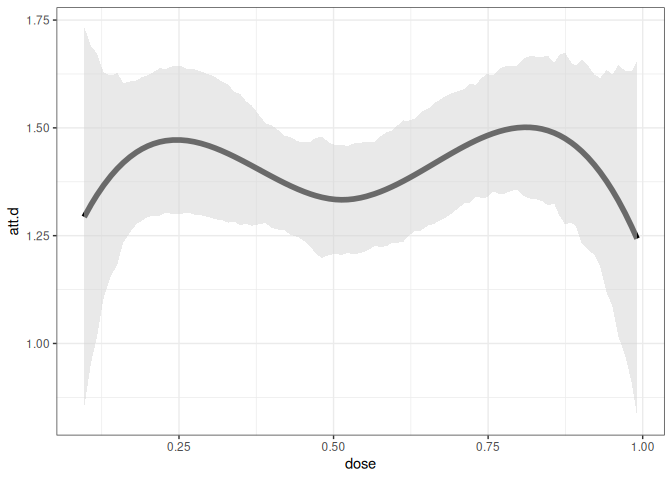
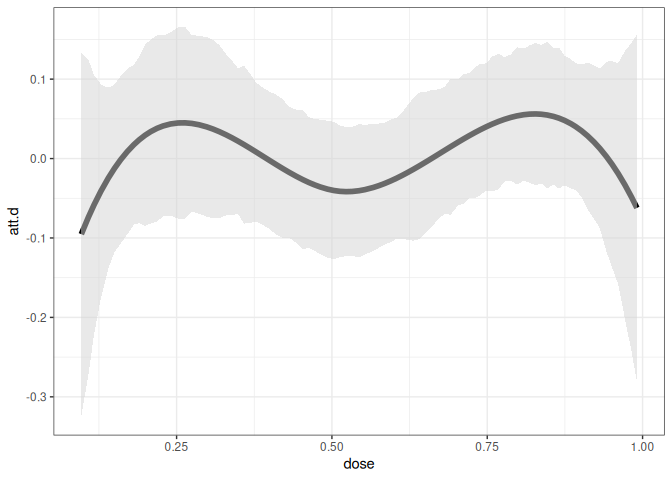
added tests

diff --git a/README.md b/README.md
@@ -20,30 +20,15 @@ devtools::install_github("bcallaway11/contdid")
 library(contdid)
 ```
 
-## Example
+## Conceptual Setup
 
-To start with, we will simulate some data, where the continuous
-treatment `D` has no affect on the outcome.
+Below, we give several examples of how to estimate causal effect
+parameters using the `cont_did` package.
 
-``` r
-# Simulate data
-set.seed(123)
-sp <- did::reset.sim()
-sp$n <- 10000
-df <- did::build_sim_dataset(sp)
-n <- length(unique(df$id))
-D <- runif(n, 0, 1)
-# add treatment variable
-df$D <- BMisc::time_invariant_to_panel(D, df, "id")
-```
-
-The following code illustrates how to estimate `ATT(d)` and `ACRT(d)`
-using the `cont_did` function, provided by the package.
-
-The interface is basically the same as for the `did` package and for
-other packages that rely on the `ptetools` backend. The main additional
-things that need to be provided to the function are the name of the
-continuous treatment variable, which should be passed through the
+At a high level, the interface is basically the same as for the `did`
+package and for other packages that rely on the `ptetools` backend, with
+only a few pieces of additional information being required. First, the
+name of the continuous treatment variable should be passed through the
 `dname` argument.
 
 The `cont_did` function expects the continuous treatment variable to
@@ -71,9 +56,10 @@ Next, the other important parameters are `target_parameter`,
   the function will calculate `ATT` parameters. If set to be “slope”,
   then the function will calculate `ACRT` parameters—these are causal
   response parameters that are derivatives of the `ATT` parameters. Our
-  paper @callaway-goodman-santanna-2024 points out some complications
-  for interpreting these derivative type parameters under the most
-  commonly invoked version of the parallel trends assumption.
+  paper [Callaway, Goodman-Bacon, and Sant’Anna
+  (2024)](https://arxiv.org/abs/2107.02637) points out some
+  complications for interpreting these derivative type parameters under
+  the most commonly invoked version of the parallel trends assumption.
 
 - `aggregation` can either by “eventstudy” or “dose”. For “eventstudy”,
   depending on the value of the `target_parameter` argument, the
@@ -95,7 +81,55 @@ Next, the other important parameters are `target_parameter`,
   the continuous treatment among treated units and subtracting the
   average outcome among the comparison units.
 
-### Dose Aggregation
+## Examples
+
+With a continous treatment, the underlying building blocks are treatment
+effects that are local to a particular timing group `g` in a particular
+time period `t` that experienced a particular value of the treatment
+`d`. These treatment affects are relatively high-dimensional, and most
+applications are likely to involve aggregating/combining these
+underlying parameters. We focus on aggregations that (i) average across
+timing-groups and time periods to given average treatment effect
+parameters as a function of the dose `d` or (ii) averages across doses
+and partially across timing group and time periods in order to give
+event studies.
+
+For the results below, we will simulate some data, where the continuous
+treatment `D` has no effect on the outcome.
+
+``` r
+# Simulate data
+set.seed(123)
+# baseline simulation parameters
+sp <- did::reset.sim()
+# adjust some default simulation parameters
+sp$n <- 10000 # increase number of units
+sp$bett <- sp$betu <- sp$te.bet.X <- rep(0, length(sp$bett)) # no effects of covariates
+sp$te <- 0 # the effect of the treatment is 0
+df <- did::build_sim_dataset(sp)
+n <- length(unique(df$id))
+D <- runif(n, 0, 1)
+# add treatment variable, it is fully independent of everything else
+df$D <- BMisc::time_invariant_to_panel(D, df, "id")
+head(df)
+#> # A tibble: 6 × 8
+#>       G      X    id cluster period     Y treat      D
+#>   <dbl>  <dbl> <int>   <int>  <dbl> <dbl> <dbl>  <dbl>
+#> 1     4 -0.560     1      19      1  2.47     1 0.548 
+#> 2     4 -0.560     1      19      2  5.23     1 0.548 
+#> 3     4 -0.560     1      19      3  6.20     1 0.548 
+#> 4     4 -0.560     1      19      4  6.29     1 0.548 
+#> 5     3  1.56      3      16      1  2.63     1 0.0237
+#> 6     3  1.56      3      16      2  4.21     1 0.0237
+```
+
+### Case 1: Dose Aggregation
+
+The following code can be used to estimate the `ATT(d)` and `ACRT(d)`
+parameters for the continuous treatment `D` using the `cont_did`
+function. The `aggregation` argument is set to “dose” and the
+`target_parameter` argument is set to “level” for `ATT(d)` and “slope”
+for `ACRT(d)`.
 
 ``` r
 cd_res <- cont_did(
@@ -118,13 +152,13 @@ cd_res <- cont_did(
 summary(cd_res)
 #> 
 #> Overall ATT:  
-#>     ATT    Std. Error     [ 95%  Conf. Int.]  
-#>  1.4145        0.0366     1.3427      1.4863 *
+#>     ATT    Std. Error     [ 95%  Conf. Int.] 
+#>  0.0067         0.027    -0.0461      0.0596 
 #> 
 #> 
 #> Overall ACRT:  
-#>     ACRT    Std. Error     [ 95%  Conf. Int.] 
-#>  -0.0582        0.0588    -0.1734       0.057 
+#>    ACRT    Std. Error     [ 95%  Conf. Int.] 
+#>  0.0376        0.0532    -0.0667      0.1419 
 #> ---
 #> Signif. codes: `*' confidence band does not cover 0
 ggcont_did(cd_res, type = "att")
@@ -138,9 +172,15 @@ ggcont_did(cd_res, type = "acrt")
 
 <img src="man/figures/README-unnamed-chunk-5-2.png" width="100%" />
 
-### Event Study Aggregations
+### Case 2: Event Study Aggregations
 
-An event study aggregation for `ATT`
+Next, we consider event study aggregations. The first is event study
+aggregation for `ATT`. The second is event study aggregation for `ACRT`.
+
+**Event study aggregation for `ATT`:**
+
+Notice that the target parameter is set `level` to target ATT, and the
+`aggregation` argument is set to `eventstudy`.
 
 ``` r
 cd_res_es_level <- cont_did(
@@ -163,17 +203,17 @@ cd_res_es_level <- cont_did(
 summary(cd_res_es_level)
 #> 
 #> Overall ATT:  
-#>     ATT    Std. Error     [ 95%  Conf. Int.]  
-#>  1.0171        0.0439      0.931      1.1033 *
+#>     ATT    Std. Error     [ 95%  Conf. Int.] 
+#>  0.0121        0.0192    -0.0255      0.0497 
 #> 
 #> 
 #> Dynamic Effects:
-#>  Event Time Estimate Std. Error  [95%  Conf. Band]  
-#>          -2   0.1651     0.0564 0.0144      0.3157 *
-#>          -1   0.2665     0.0339 0.1760      0.3569 *
-#>           0   0.9330     0.0307 0.8509      1.0151 *
-#>           1   1.0211     0.0480 0.8929      1.1493 *
-#>           2   1.1971     0.0962 0.9400      1.4542 *
+#>  Event Time Estimate Std. Error   [95%  Conf. Band] 
+#>          -2  -0.0965     0.0410 -0.2054      0.0124 
+#>          -1   0.0339     0.0256 -0.0341      0.1019 
+#>           0   0.0091     0.0207 -0.0457      0.0639 
+#>           1   0.0149     0.0246 -0.0504      0.0803 
+#>           2   0.0058     0.0381 -0.0953      0.1070 
 #> ---
 #> Signif. codes: `*' confidence band does not cover 0
 ggcont_did(cd_res_es_level)
@@ -181,7 +221,10 @@ ggcont_did(cd_res_es_level)
 
 <img src="man/figures/README-unnamed-chunk-6-1.png" width="100%" />
 
-And an event study aggregation for `ACRT`
+**Event study aggregation for `ACRT`:**
+
+Relative to the previous code, notice that the target parameter is set
+`slope` to target ACRT.
 
 ``` r
 cd_res_es_slope <- cont_did(
@@ -204,17 +247,17 @@ cd_res_es_slope <- cont_did(
 summary(cd_res_es_slope)
 #> 
 #> Overall ACRT:  
-#>      ATT    Std. Error     [ 95%  Conf. Int.] 
-#>  -0.0582        0.0627    -0.1811      0.0647 
+#>     ATT    Std. Error     [ 95%  Conf. Int.] 
+#>  0.0376        0.0435    -0.0477      0.1229 
 #> 
 #> 
 #> Dynamic Effects:
 #>  Event Time Estimate Std. Error   [95%  Conf. Band] 
-#>          -2   0.0943     0.0955 -0.1312      0.3198 
-#>          -1   0.0234     0.0644 -0.1287      0.1755 
-#>           0   0.0435     0.0478 -0.0694      0.1565 
-#>           1  -0.1086     0.0924 -0.3269      0.1097 
-#>           2  -0.4764     0.2107 -0.9742      0.0213 
+#>          -2   0.0723     0.0510 -0.0656      0.2102 
+#>          -1   0.0036     0.0607 -0.1604      0.1676 
+#>           0   0.0862     0.0476 -0.0426      0.2150 
+#>           1   0.0448     0.0676 -0.1381      0.2277 
+#>           2   0.0457     0.1139 -0.2622      0.3537 
 #> ---
 #> Signif. codes: `*' confidence band does not cover 0
 ggcont_did(cd_res_es_slope)
